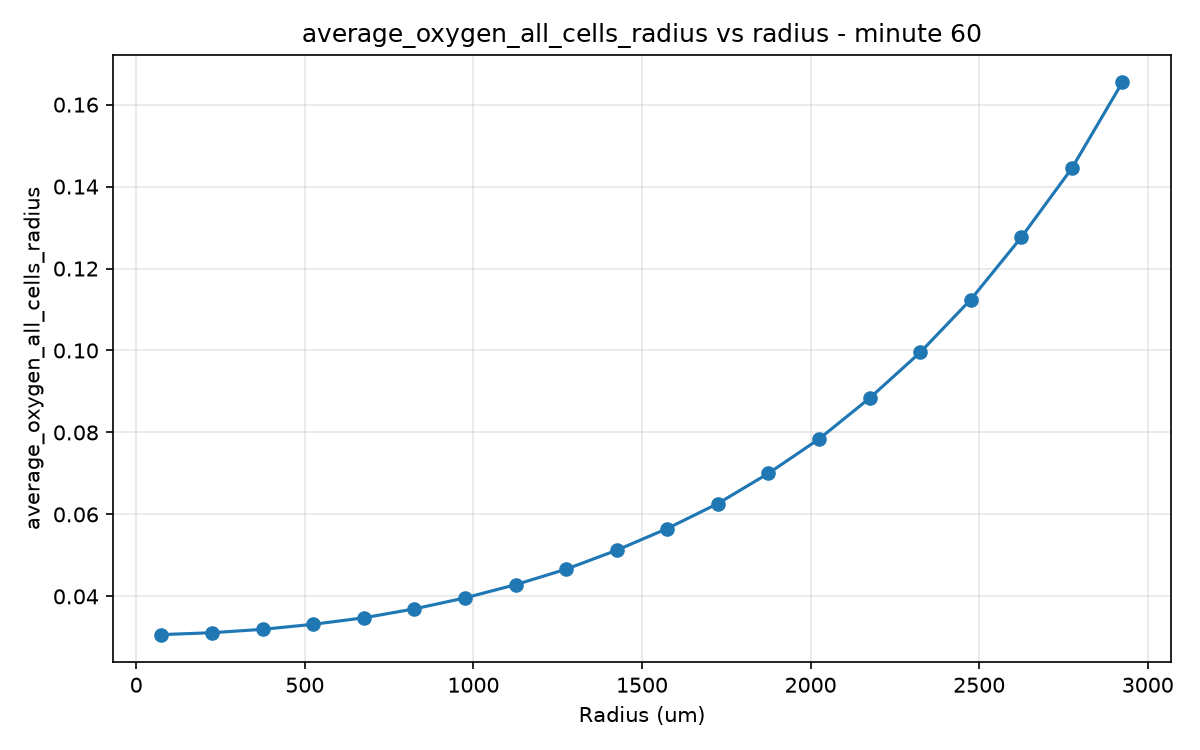
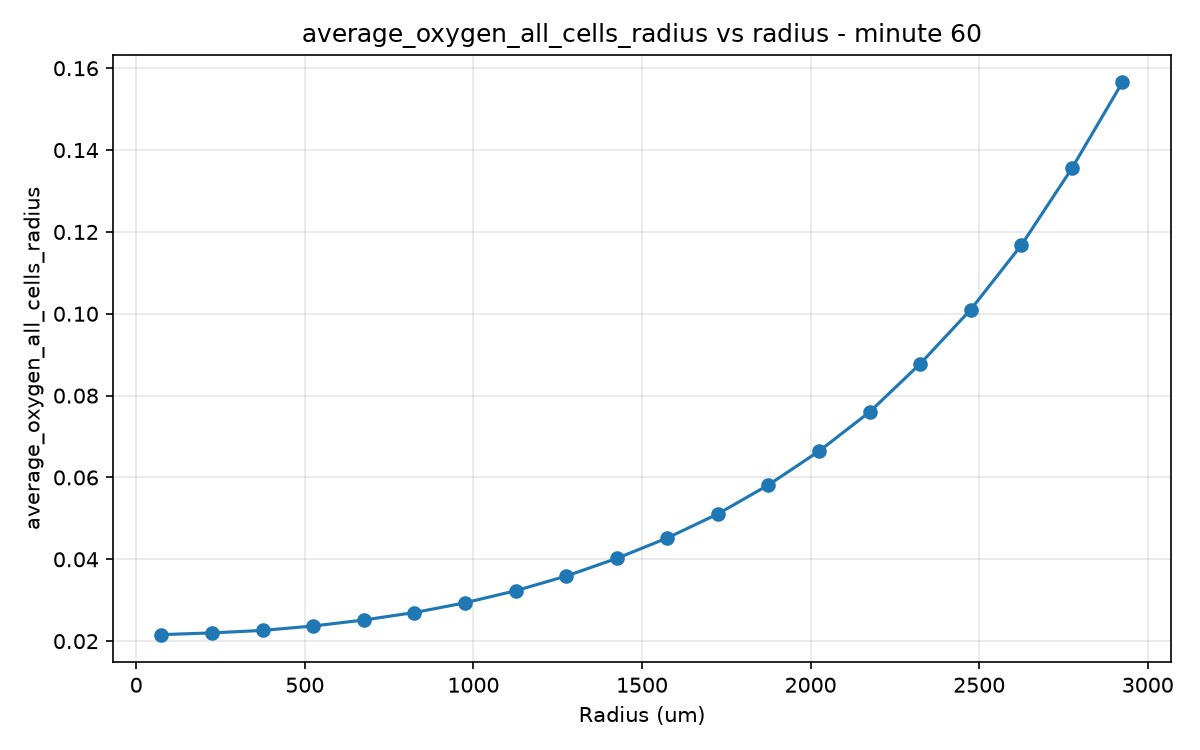
oxygen diffusion ready

diff --git a/draft/analysis_radius_oxygen.py b/draft/analysis_radius_oxygen.py
@@ -4,7 +4,7 @@ import matplotlib.pyplot as plt
 
 # ---- settings ----
 CSV_PATH = "./output/data_dependent_on_radius_tumor.csv"
-MINUTE = 30 # change this to the minute you want to plot
+MINUTE = 60 # change this to the minute you want to plot
 ATTRIBUTE = "average_oxygen_all_cells_radius"  # change this to the attribute you want to plot
 DIVIDING_FACTOR = 585  # change this to the factor you want to divide by. Use 525 to pass from mmHg to mol/m3
 # other examples: "average_oncoprotein_radius", "average_oxygen_cancer_cells_radius",
